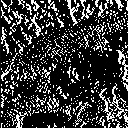
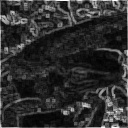
Updated Q11-20.

diff --git a/Question_11_20/15_Sobel_Filter.py b/Question_11_20/15_Sobel_Filter.py
@@ -1,0 +1,45 @@
+import cv2
+import numpy as np
+
+# Read image
+img = cv2.imread("./imori.jpg").astype(np.float)
+H, W, C = img.shape
+
+b = img[:, :, 0].copy()
+g = img[:, :, 1].copy()
+r = img[:, :, 2].copy()
+
+# Gray scale
+gray = 0.2126 * r + 0.7152 * g + 0.0722 * b
+gray = gray.astype(np.uint8)
+
+# Sobel Filter
+K_size = 3
+
+# Zero padding
+pad = K_size//2
+out_h = np.zeros((H + pad*2, W + pad*2), dtype=np.float)
+out_v = np.zeros((H + pad*2, W + pad*2), dtype=np.float)
+out_h[pad:pad+H, pad:pad+W] = gray.copy().astype(np.float)
+out_v[pad:pad+H, pad:pad+W] = gray.copy().astype(np.float)
+tmp = out_h.copy()
+
+# Sobel Horizontal
+K_h = [[1., 0., -1.],[2., 0., -2.],[1., 0., -1.]]
+# Sobel Vertical
+K_v = [[1., 2., 1.],[0., 0., 0.], [-1., -2., -1.]]
+
+for y in range(H):
+    for x in range(W):
+        out_h[pad+y, pad+x] = np.mean(K_h * (tmp[y:y+K_size, x:x+K_size]))
+        out_v[pad+y, pad+x] = np.mean(K_v * (tmp[y:y+K_size, x:x+K_size]))
+
+out_h = out_h[pad:pad+H, pad:pad+W].astype(np.uint8)
+out_v = out_v[pad:pad+H, pad:pad+W].astype(np.uint8)
+
+# Save result
+cv2.imwrite("out.jpg", out_h)
+cv2.imshow("Sobel Filter Horizontal", out_h)
+cv2.imshow("Sobel Filter Vertical", out_v)
+cv2.waitKey(0)
+cv2.destroyAllWindows()

diff --git a/Question_11_20/16_Prewitt_Filter.py b/Question_11_20/16_Prewitt_Filter.py
@@ -1,0 +1,44 @@
+import cv2
+import numpy as np
+
+# Read image
+img = cv2.imread("./imori.jpg").astype(np.float)
+H, W, C = img.shape
+
+b = img[:, :, 0].copy()
+g = img[:, :, 1].copy()
+r = img[:, :, 2].copy()
+
+# Gray scale
+gray = 0.2126 * r + 0.7152 * g + 0.0722 * b
+gray = gray.astype(np.uint8)
+
+# sobel Filter
+K_size = 3
+
+## Zero padding
+pad = K_size // 2
+out_h = np.zeros((H + pad*2, W + pad*2), dtype=np.float)
+out_v = np.zeros((H + pad*2, W + pad*2), dtype=np.float)
+out_h[pad:pad+H, pad:pad+W] = gray.copy().astype(np.float)
+tmp = out_h.copy()
+
+## Prewitt Filter Horizontal
+K_h = [[-1., 0., 1.],[-1., 0., 1.],[-1., 0., 1.]]
+## Prewitt Filter Vertical
+K_v = [[-1., -1., -1.],[0., 0., 0.], [1., 1., 1.]]
+
+for y in range(H):
+    for x in range(W):
+        out_h[pad+y, pad+x] = np.mean(K_h * (tmp[y:y+K_size, x:x+K_size]))
+        out_v[pad+y, pad+x] = np.mean(K_h * (tmp[y:y+K_size, x:x+K_size]))
+
+out_h = out_h[pad:pad+H, pad:pad+W].astype(np.uint8)
+out_v = out_v[pad:pad+H, pad:pad+W].astype(np.uint8)
+
+# Save result
+cv2.imwrite("out.jpg", out_h)
+cv2.imshow("Prewitt Filter Horizontal", out_h)
+cv2.imshow("Prewitt Filter Vertical", out_v)
+cv2.waitKey(0)
+cv2.destroyAllWindows()

diff --git a/Question_11_20/19_LoG_Filter.py b/Question_11_20/19_LoG_Filter.py
@@ -2,7 +2,7 @@ import cv2
 import numpy as np
 
 # Read image
-img = cv2.imread("imori.jpg").astype(np.float)
+img = cv2.imread("./imori_noise.jpg")
 H, W, C = img.shape
 
 b = img[:, :, 0].copy()
@@ -13,8 +13,9 @@ r = img[:, :, 2].copy()
 gray = 0.2126 * r + 0.7152 * g + 0.0722 * b
 gray = gray.astype(np.uint8)
 
-# Max-Min Filter
-K_size = 3
+# Gaussian Filter
+K_size = 5
+s = 3
 
 ## Zero padding
 pad = K_size // 2
@@ -22,9 +23,17 @@ out = np.zeros((H + pad*2, W + pad*2), dtype=np.float)
 out[pad:pad+H, pad:pad+W] = gray.copy().astype(np.float)
 tmp = out.copy()
 
+## Kernel
+K = np.zeros((K_size, K_size), dtype=np.float)
+for x in range(-pad, -pad+K_size):
+    for y in range(-pad, -pad+K_size):
+        K[y+pad, x+pad] = (x**2 + y**2 - s**2) * np.exp( -(x**2 + y**2) / (2* (s**2)))
+K /= (2 * np.pi * (s**6))
+K /= K.sum()
+
 for y in range(H):
     for x in range(W):
-        out[pad+y, pad+x] = np.max(tmp[y:y+K_size, x:x+K_size]) - np.min(tmp[y:y+K_size, x:x+K_size])
+        out[pad+y, pad+x] = np.sum(K * tmp[y:y+K_size, x:x+K_size])
 
 out = out[pad:pad+H, pad:pad+W].astype(np.uint8)
 

diff --git a/Question_11_20/13_Max_Min_Filter.py b/Question_11_20/13_Max_Min_Filter.py
@@ -2,7 +2,7 @@ import cv2
 import numpy as np
 
 # Read image
-img = cv2.imread("imori.jpg").astype(np.float)
+img = cv2.imread("./imori.jpg").astype(np.float)
 H, W, C = img.shape
 
 b = img[:, :, 0].copy()
@@ -13,7 +13,7 @@ r = img[:, :, 2].copy()
 gray = 0.2126 * r + 0.7152 * g + 0.0722 * b
 gray = gray.astype(np.uint8)
 
-# sobel Filter
+# Max-Min Filter
 K_size = 3
 
 ## Zero padding
@@ -22,14 +22,9 @@ out = np.zeros((H + pad*2, W + pad*2), dtype=np.float)
 out[pad:pad+H, pad:pad+W] = gray.copy().astype(np.float)
 tmp = out.copy()
 
-## Sobel vertical
-K = [[1., 0., -1.],[2., 0., -2.],[1., 0., -1.]]
-## Sobel horizontal
-#K = [[1., 2., 1.],[0., 0., 0.], [-1., -2., -1.]]
-
 for y in range(H):
     for x in range(W):
-        out[pad+y, pad+x] = np.mean(K * (tmp[y:y+K_size, x:x+K_size]))
+        out[pad+y, pad+x] = np.max(tmp[y:y+K_size, x:x+K_size]) - np.min(tmp[y:y+K_size, x:x+K_size])
 
 out = out[pad:pad+H, pad:pad+W].astype(np.uint8)
 

diff --git a/Question_11_20/18_Emboss_Filter.py b/Question_11_20/18_Emboss_Filter.py
@@ -2,7 +2,7 @@ import cv2
 import numpy as np
 
 # Read image
-img = cv2.imread("imori.jpg").astype(np.float)
+img = cv2.imread("./imori.jpg").astype(np.float)
 H, W, C = img.shape
 
 b = img[:, :, 0].copy()
@@ -22,12 +22,12 @@ out = np.zeros((H + pad*2, W + pad*2), dtype=np.float)
 out[pad:pad+H, pad:pad+W] = gray.copy().astype(np.float)
 tmp = out.copy()
 
-## Laplacian vertical
-K = [[0., 1., 0.],[1., -4., 1.], [0., 1., 0.]]
+## Emboss vertical
+K = [[-2., -1., 0.],[-1., 1., 1.], [0., 1., 2.]]
 
 for y in range(H):
     for x in range(W):
-        out[pad+y, pad+x] = np.mean(K * (tmp[y:y+K_size, x:x+K_size]))
+        out[pad+y, pad+x] = np.sum(K * (tmp[y:y+K_size, x:x+K_size]))
 
 out = out[pad:pad+H, pad:pad+W].astype(np.uint8)
 

diff --git a/Question_11_20/17_Laplacian_Filter.py b/Question_11_20/17_Laplacian_Filter.py
@@ -2,7 +2,7 @@ import cv2
 import numpy as np
 
 # Read image
-img = cv2.imread("imori.jpg").astype(np.float)
+img = cv2.imread("./imori.jpg").astype(np.float)
 H, W, C = img.shape
 
 b = img[:, :, 0].copy()
@@ -22,10 +22,8 @@ out = np.zeros((H + pad*2, W + pad*2), dtype=np.float)
 out[pad:pad+H, pad:pad+W] = gray.copy().astype(np.float)
 tmp = out.copy()
 
-## Sobel vertical
-#K = [[1., 0., -1.],[1., 0., -1.],[1., 0., -1.]]
-## Sobel horizontal
-K = [[-1., -1., -1.],[0., 0., 0.], [1., 1., 1.]]
+## Laplacian vertical
+K = [[0., 1., 0.],[1., -4., 1.], [0., 1., 0.]]
 
 for y in range(H):
     for x in range(W):

diff --git a/Question_11_20/20_Histogram_Display.py b/Question_11_20/20_Histogram_Display.py
@@ -1,0 +1,11 @@
+import cv2
+import numpy as np
+import matplotlib.pyplot as plt
+
+# Read image
+img = cv2.imread("./imori_dark.jpg").astype(np.float)
+
+# Display histogram
+plt.hist(img.ravel(), bins=255, rwidth=0.8, range=(0, 255))
+plt.savefig("out.png")
+plt.show()

diff --git a/Question_11_20/14_Differential_Filter.py b/Question_11_20/14_Differential_Filter.py
@@ -2,7 +2,7 @@ import cv2
 import numpy as np
 
 # Read image
-img = cv2.imread("imori.jpg").astype(np.float)
+img = cv2.imread("./imori.jpg").astype(np.float)
 H, W, C = img.shape
 
 b = img[:, :, 0].copy()

diff --git a/Question_11_20/11_Smoothing_Filter.py b/Question_11_20/11_Smoothing_Filter.py
@@ -2,7 +2,7 @@ import cv2
 import numpy as np
 
 # Read image
-img = cv2.imread("imori.jpg")
+img = cv2.imread("./imori.jpg")
 H, W, C = img.shape
 
 

diff --git a/Question_11_20/12_Motion_Filter.py b/Question_11_20/12_Motion_Filter.py
@@ -2,7 +2,7 @@ import cv2
 import numpy as np
 
 # Read image
-img = cv2.imread("imori.jpg")
+img = cv2.imread("./imori.jpg")
 H, W, C = img.shape
 
 

diff --git a/README.md b/README.md
@@ -75,7 +75,7 @@ Hope this could help more people and thanks for [yoyoyo-yo's](https://github.com
             Question         >>        Folder
 
 - [x] Question 1 - 10   >> Question_01_10
-- [ ] Question 11 - 20 >> Question_ 11 _ 20
+- [x] Question 11 - 20 >> Question_ 11 _ 20
 - [ ] Question 21 - 30 >> Question_ 21 _ 30
 - [ ] Question 31 - 40 >> Question_ 31 _ 40
 - [ ] Question 41 - 50 >> Question_ 41 _ 50
@@ -101,19 +101,19 @@ Hope this could help more people and thanks for [yoyoyo-yo's](https://github.com
 | :----: | :----------------------------------------------------------: | :----: | :----------------------------------------------------------: |
 |   1    |  [Channel swapping](./Question_01_10/1_Channel_Swapping.py)  |   6    | [Discretization of Color](./Question_01_10/6_Discretization_of_Color.py) |
 |   2    |         [Grayscale](./Question_01_10/2_Grayscale.py)         |   7    |   [Average Pooling](./Question_01_10/7_Average_Pooling.py)   |
-|   3    |      [Binarization](./Question_01_10/3_Binarization.py)      |   8    |       [Max pooling](./Question_01_10/8_Max_Pooling.py)       |
+|   3    |      [Binarization](./Question_01_10/3_Binarization.py)      |   8    |       [Max Pooling](./Question_01_10/8_Max_Pooling.py)       |
 |   4    | [Binarization of Otsu](./Question_01_10/4_Binarization_of_Otsu.py) |   9    |   [Gaussian Filter](./Question_01_10/9_Gaussian_Filter.py)   |
 |   5    |    [HSV Conversion](./Question_01_10/5_HSV_Conversion.py)    |   10   |    [Median Filter](./Question_01_10/10_Median_Filter.py)     |
 
 ## [Question 11 - 20](https://github.com/KuKuXia/Image_Processing_100_Questions/tree/master/Question_11_20)
 
-| Number |      Question       | Number |     Question      |
-| :----: | :-----------------: | :----: | :---------------: |
-|   11   |  Smoothing filter   |   16   |  Prewitt filter   |
-|   12   |    Motion filter    |   17   | Laplacian filter  |
-|   13   |   MAX-MIN filter    |   18   |   Emboss filter   |
-|   14   | Differential filter |   19   |    LoG filter     |
-|   15   |    Sobel filter     |   20   | Histogram display |
+| Number |                           Question                           | Number |                           Question                           |
+| :----: | :----------------------------------------------------------: | :----: | :----------------------------------------------------------: |
+|   11   | [Smoothing Filter](./Question_11_20/11_Smoothing_Filter.py)  |   16   |   [Prewitt Filter](./Question_11_20/16_Prewitt_Filter.py)    |
+|   12   |    [Motion Filter](./Question_11_20/12_Motion_Filter.py)     |   17   | [Laplacian Filter](./Question_11_20/17_Laplacian_Filter.py)  |
+|   13   |   [MAX_MIN Filter](./Question_11_20/13_Max_Min_Filter.py)    |   18   |    [Emboss Filter](./Question_11_20/18_Emboss_Filter.py)     |
+|   14   | [Differential Filter](./Question_11_20/14_Differential_Filter.py) |   19   |       [LoG Filter](./Question_11_20/19_LoG_Filter.py)        |
+|   15   |     [Sobel Filter](./Question_11_20/15_Sobel_Filter.py)      |   20   | [Histogram Display](./Question_11_20/20_Histogram_Display.py) |
 
 ## [Question 21 - 30](https://github.com/KuKuXia/Image_Processing_100_Questions/tree/master/Question_21_30)
 

diff --git a/Question_11_20/README.md b/Question_11_20/README.md
@@ -10,7 +10,7 @@ The smoothing filter is a filter that outputs the average value of the pixels in
 |:---:|:---:|
 |![](imori.jpg)|![](answer_11.jpg)|
 
-Answer >> answer_11.py
+Answer >> [11_Smoothing_Filter.py](./11_Smoothing_Filter.py)
 
 
 ## Q.12. Motion Filter
@@ -29,7 +29,7 @@ The motion filter is a filter that takes the average value in the diagonal direc
 |:---:|:---:|
 |![](imori.jpg)|![](answer_12.jpg)|
 
-Answer >> answer_12.py
+Answer >> [12_Motion_Filter.py](./12_Motion_Filter.py)
 
 ## Q.13. Max-Min Filter
 
@@ -41,7 +41,7 @@ The Max-Min filter is a filter that outputs the difference between the maximum v
 |:---:|:---:|
 |![](imori.jpg)|![](answer_13.jpg)|
 
-Answer >> answer_13.py
+Answer >> [13_Max_Min_Filter.py](./13_Max_Min_Filter.py)
 
 
 ## Q.14. Differential Filter
@@ -61,7 +61,7 @@ K = [ 0  1  0 ]               K = [ -1 1 0 ]
 |:---:|:---:|:---:|
 |![](imori.jpg)|![](answer_14_v.jpg)|![](answer_14_h.jpg)|
 
-Answer >> answer_14.py
+Answer >> [14_Differential_Filter.py](./14_Differential_Filter.py)
 
 ## Q.15. Sobel Filter
 
@@ -70,7 +70,7 @@ Answer >> answer_14.py
 The Sobel filter (Sobel filter) is a filter that extracts only edges in a specific direction (vertical and horizontal), and is defined by the following equation.
 
 ```bash
-(a)Vertical Direction      (b)Horizontal Direction
+(a)Horizontal Direction      (b)Vertical Direction
       1 0 -1                         1  2  1
 K = [ 2 0 -2 ]                K = [  0  0  0 ]
       1 0 -1                        -1 -2 -1
@@ -80,7 +80,7 @@ K = [ 2 0 -2 ]                K = [  0  0  0 ]
 |:---:|:---:|:---:|
 |![](imori.jpg)|![](answer_15_v.jpg)|![](answer_15_h.jpg)|
 
-Answer >> answer_15.py
+Answer >> [15_Sobel_Filter.py](./15_Sobel_Filter.py)
 
 ## Q.16.  Prewitt Filter
 
@@ -99,7 +99,7 @@ K = [  0  0  0 ]              K = [ -1 0 1 ]
 |:---:|:---:|:---:|
 |![](imori.jpg)|![](answer_16_v.jpg)|![](answer_16_h.jpg)|
 
-Answer >> answer_16.py
+Answer >> [16_Prewitt_Filter.py](./16_Prewitt_Filter.py)
 
 
 ## Q.17. Laplacian Filter
@@ -143,7 +143,7 @@ K = [ 1 -4  1 ]
 |:---:|:---:|
 |![](imori.jpg)|![](answer_17.jpg)|
 
-Answer >> answer_17.py
+Answer >> [17_Laplacian_Filter.py](./17_Laplacian_Filter.py)
 
 ## Q.18. Emboss Filter
 
@@ -161,7 +161,7 @@ K = [ -1  1  1 ]
 |:---:|:---:|
 |![](imori.jpg)|![](answer_18.jpg)|
 
-Answer >> answer_17.py
+Answer >> [18_Emboss_Filter.py](./18_Emboss_Filter.py)
 
 ## Q.19. LoG Filter
 
@@ -181,7 +181,7 @@ LoG(x,y) = (x^2 + y^2 - s^2) / (2 * pi * s^6) * exp(-(x^2+y^2) / (2*s^2))
 |:---:|:---:|
 |![](imori.jpg)|![](answer_19.jpg)|
 
-Answer >> answer_20.py
+Answer >> [19_LoG_Filter.py](./19_LoG_Filter.py)
 ## Q.20. Histogram Display
 
 ### Detail: Use matplotlib to display the histogram of *imori_dark.jpg* .
@@ -192,5 +192,5 @@ A histogram is a graph of the appearance frequency of pixels. In matplotlib, the
 |:---:|:---:|
 |![](imori_dark.jpg)|![](answer_20.png)|
 
-Answer >> answer_20.py
+Answer >> [20_Histogram_Display.py](./20_Histogram_Display.py)
 
